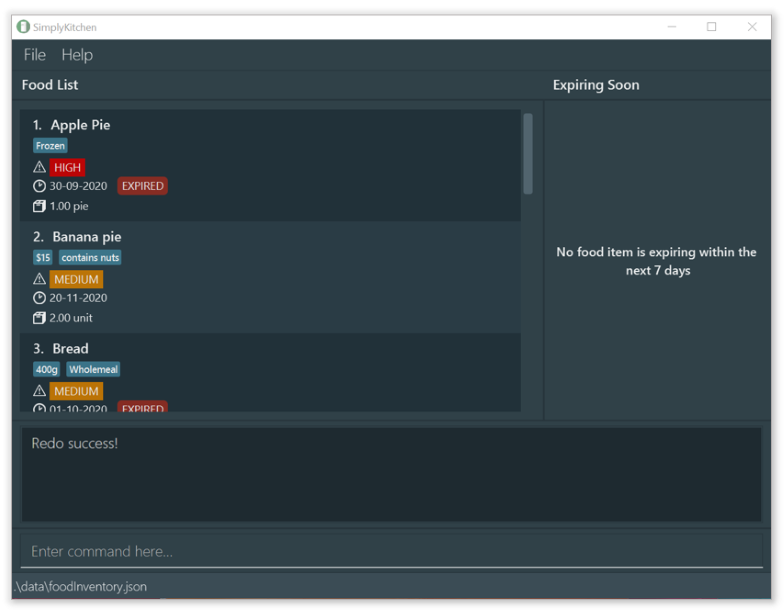
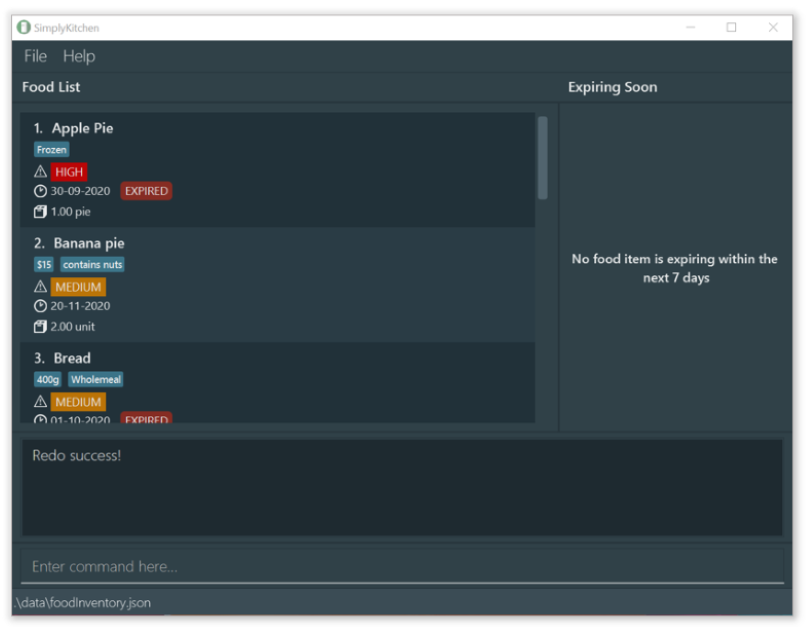
Update image size

diff --git a/docs/UserGuide.md b/docs/UserGuide.md
@@ -225,8 +225,6 @@ The commands in this section are the basic commands used to manipulate food item
 
 ### 5.1.1. Adding a food item
 
-(Contributed by Cheng Hin)
-
 The `add` command stores a food item in your food inventory, so that you can start tracking it.
 You can then access the food item later on for editing, deleting etc.
 
@@ -269,8 +267,6 @@ The result of executing `add d/Banana pie e/20-11-2020 q/2 p/medium t/$15 t/cont
 
 ### 5.1.2. Editing a food item
 
-(Contributed by Cheng Hin)
-
 The `edit` command edits the details of an existing food item in your food inventory.
 If an entry is incorrect, you can easily edit the entry without deleting and re-adding the food item.
 
@@ -302,8 +298,6 @@ The constraints for the individual parameters of this command (description, expi
 <div style="page-break-after: always;"></div>
 
 ### 5.1.3. Deleting a food item
-
-(Contributed by Cheng Hin)
 
 The `delete` command deletes a specified food item from your food inventory, so that you can stop tracking it.
 
@@ -513,8 +507,6 @@ These are additional commands you can use to enhance your experience with Simply
 
 ### 5.4.1. Undoing previous command
 
-(Contributed by Cheng Hin)
-
 The `undo` command restores your food inventory to a state before an undoable command was executed. This lets you easily correct mistakes made on your food inventory.
 Undoable commands are commands that modify your food inventory's content ([`add`](#511-adding-a-food-item), [`edit`](#512-editing-a-food-item), [`delete`](#513-deleting-a-food-item) , [`changeqty`](#514-changing-the-quantity-of-a-food-item) and [`clear`](#543-clearing-all-entries)) and commands that sort food items ([`sortdesc`](#521-sorting-food-items-by-description), [`sortexpiry`](#522-sorting-food-items-by-expiry-date), [`sortpriority`](#523-sorting-food-items-by-priority)).
 
@@ -539,8 +531,6 @@ Note that the undo/redo history will be cleared when you exit the application!
 [Back to top](#table-of-contents)
 
 ### 5.4.2. Redoing previously undone command
-
-(Contributed by Cheng Hin)
 
 The `redo` command restores your food inventory to a state before an [`undo`](#541-undoing-previous-command) command was executed. This lets you easily redo commands that were incorrectly undone.
 
@@ -691,8 +681,6 @@ Therefore, the food item to be added is considered a duplicate.
 
 # 8. Command summary
 
-(Contributed by Cheng Hin)
-
 Action | Format, Examples
 -------|------------------
 **Add** | `add d/DESCRIPTION e/EXPIRY_DATE q/QUANTITY [p/PRIORITY] [t/TAG]...`<br> e.g. `add d/cereal e/31-10-2020 q/2 p/medium t/corn flakes`
@@ -717,8 +705,6 @@ Action | Format, Examples
 <div style="page-break-after: always;"></div>
 
 # 9. Glossary
-
-(Contributed by Cheng Hin)
 
 Term | Definition/Description
 -----|------------------
